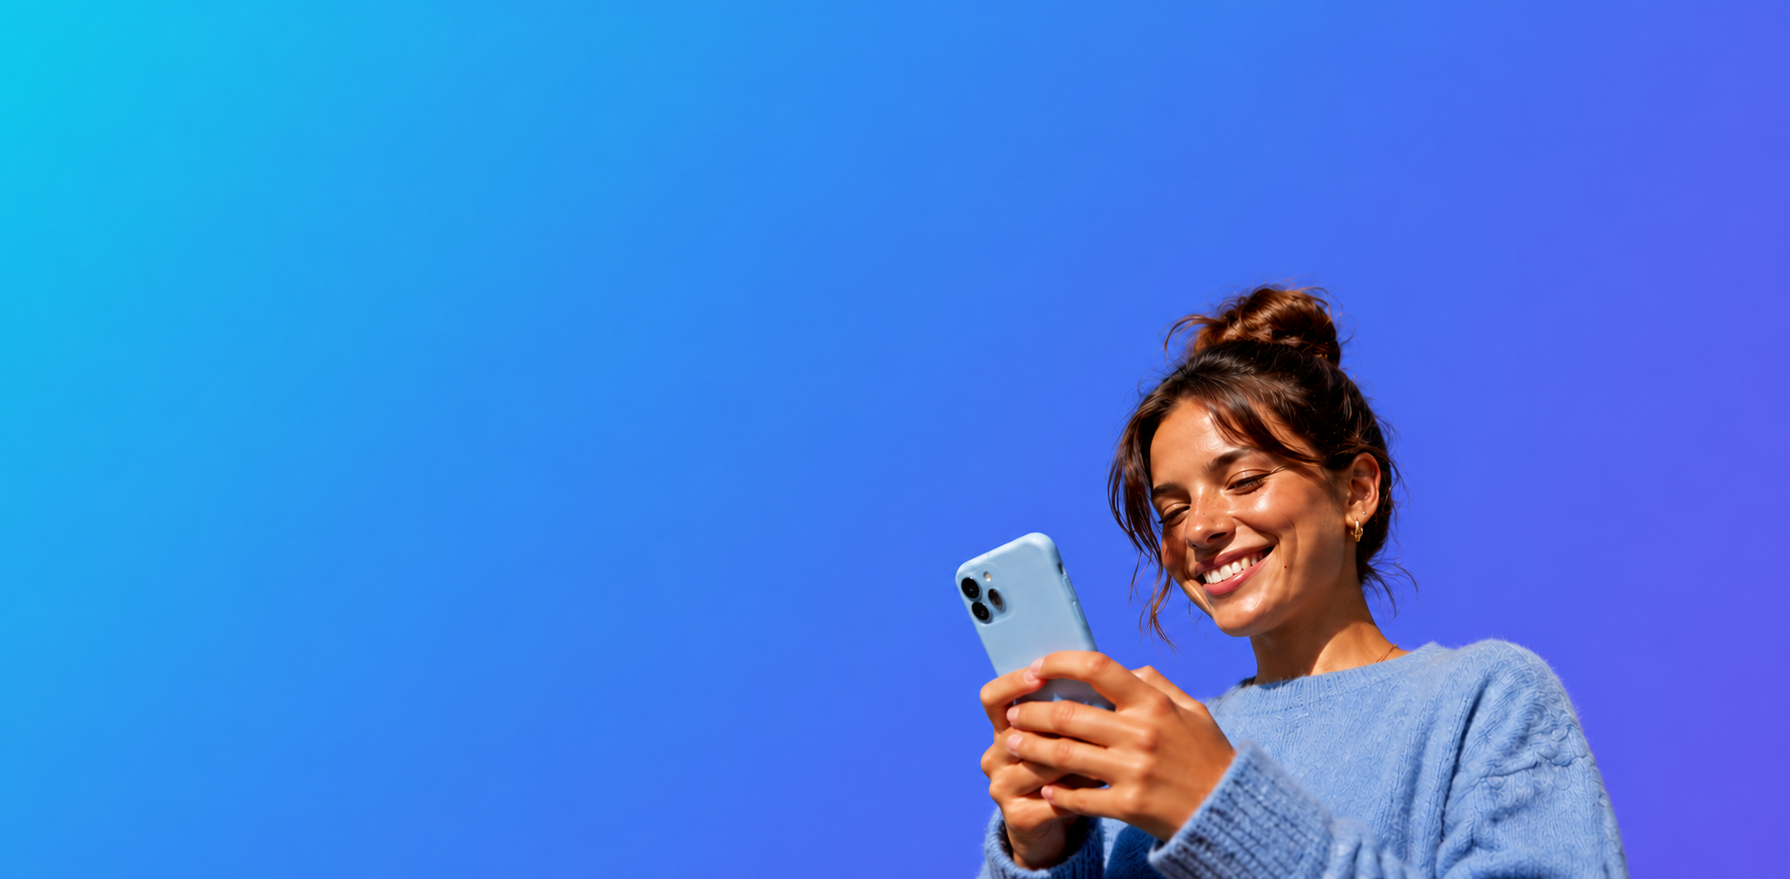
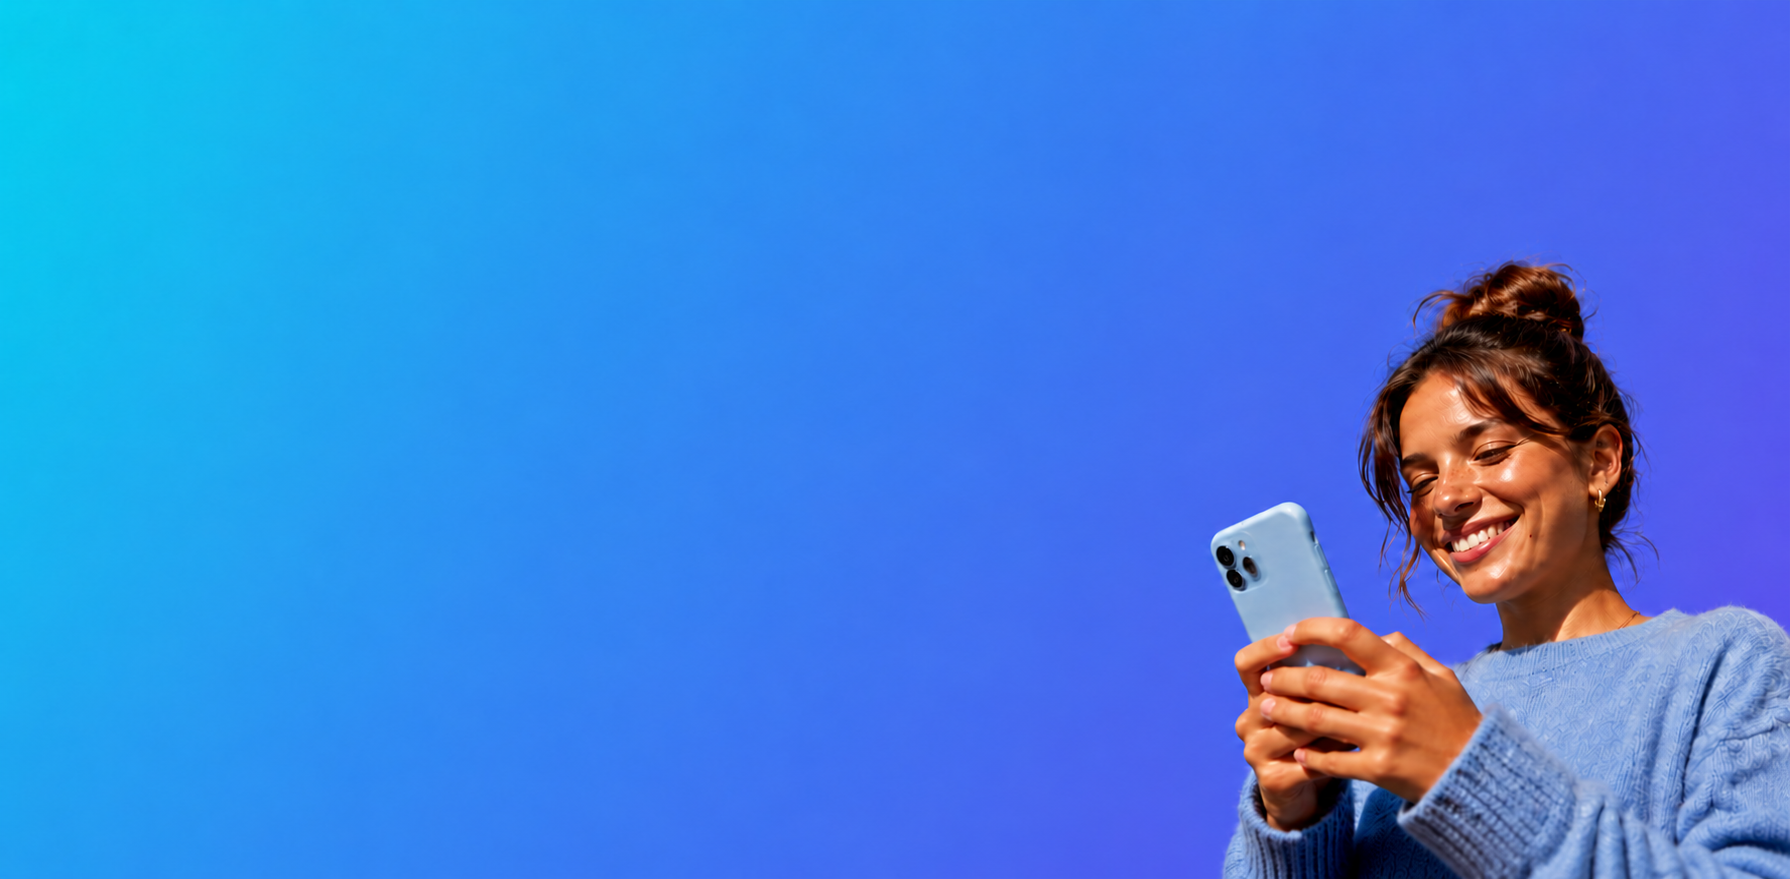
img

Changed region(s): [[0.5223, 0.2765, 1.0, 1.0]]

diff --git a/src/components/Hero.tsx b/src/components/Hero.tsx
@@ -7,15 +7,15 @@ interface HeroProps {
 }
 
 export default function Hero({ onGetStarted }: HeroProps) {
-  // 5-step cycle: 0=reset/blank, 1=question, 2=+trigger, 3=+hello, 4=+product card
-  const [step, setStep] = useState(1);
+  // 4-step cycle: 0=reset/blank, 1=comment, 2=creator reply, 3=DM received
+  const [step, setStep] = useState(0);
   const [typedText, setTypedText] = useState("");
   const [isTypingDone, setIsTypingDone] = useState(false);
 
   useEffect(() => {
     const timer = setInterval(() => {
-      setStep((prev) => (prev >= 4 ? 0 : prev + 1));
-    }, 2000);
+      setStep((prev) => (prev >= 3 ? 0 : prev + 1));
+    }, 2800);
     return () => clearInterval(timer);
   }, []);
 
@@ -104,93 +104,103 @@ export default function Hero({ onGetStarted }: HeroProps) {
                   Trusted Meta Tech Providers
                 </span>
               </div>
-              
+
               {/* Official APIs Caption */}
               <p className="text-xs text-white/70 font-medium select-none pl-2 tracking-tight">
-                *we use 100% official meta apis
+                *We use 100% official Meta APIs
               </p>
             </motion.div>
           </div>
 
-          {/* ── Right Column: Chat bubbles ── */}
+          {/* ── Right Column: Instagram Comment & DM Mockups ── */}
           <div className="hidden lg:block relative h-[500px]">
 
-            {/* Bubble 1: "Do you have a shop?" — step 1+ */}
+            {/* Comments Mockup (Floating bubbles, no sheet wrapper) */}
             <AnimatePresence>
-              {step >= 1 && (
+              {(step === 1 || step === 2) && (
                 <motion.div
-                  key="bubble-question"
-                  initial={{ opacity: 0, y: -12, scale: 0.92 }}
+                  initial={{ opacity: 0, y: -20, scale: 0.95 }}
                   animate={{ opacity: 1, y: 0, scale: 1 }}
-                  exit={{ opacity: 0, y: -12, scale: 0.92 }}
-                  transition={{ type: 'spring', stiffness: 220, damping: 24 }}
-                  className="absolute flex items-center gap-2.5 bg-[#1b1b1b] text-white px-3.5 py-2.5 rounded-2xl shadow-2xl border border-white/10 backdrop-blur-sm"
-                  style={{ top: '8%', right: '8%' }}
+                  exit={{ opacity: 0, y: 20, scale: 0.95 }}
+                  transition={{ type: 'spring', stiffness: 200, damping: 22 }}
+                  className="absolute w-[260px] flex flex-col gap-3 select-none"
+                  style={{ top: '22%', right: '38%' }}
                 >
-                  <img
-                    src="https://images.unsplash.com/photo-1534528741775-53994a69daeb?auto=format&fit=crop&q=80&w=150"
-                    alt="User"
-                    className="h-7 w-7 rounded-full border-2 border-[#695dd4] object-cover shrink-0"
-                    referrerPolicy="no-referrer"
-                  />
-                  <p className="text-xs font-bold whitespace-nowrap">Do you have a shop?</p>
+                  {/* Comment 1: User asking for link */}
+                  <div className="flex items-start gap-2">
+                    <img
+                      src="https://images.unsplash.com/photo-1494790108377-be9c29b29330?auto=format&fit=crop&q=80&w=150"
+                      alt="Follower"
+                      className="h-6 w-6 rounded-full object-cover shrink-0 mt-0.5"
+                      referrerPolicy="no-referrer"
+                    />
+                    <div className="bg-[#1e1e1e]/95 border border-white/5 text-white text-[10px] px-3.5 py-2.5 rounded-2xl rounded-tl-none font-medium leading-normal shadow-xl">
+                      <div className="flex items-baseline gap-1 mb-0.5">
+                        <span className="font-bold text-white/90">charlie_design</span>
+                        <span className="text-[7.5px] text-white/40">2d</span>
+                      </div>
+                      <p className="text-white/90">Link please</p>
+                    </div>
+                  </div>
+
+                  {/* Comment 2: Creator auto-reply */}
+                  <AnimatePresence>
+                    {step === 2 && (
+                      <motion.div
+                        initial={{ opacity: 0, y: 10, scale: 0.95 }}
+                        animate={{ opacity: 1, y: 0, scale: 1 }}
+                        exit={{ opacity: 0, y: 10, scale: 0.95 }}
+                        transition={{ duration: 0.25 }}
+                        className="flex items-start gap-2 pl-6 mt-1"
+                      >
+                        {/* Creator Avatar with gradient border */}
+                        <div className="relative shrink-0 mt-0.5">
+                          <div className="absolute inset-0 -m-[1.5px] rounded-full bg-gradient-to-tr from-yellow-500 via-pink-500 to-purple-600" style={{ animation: 'spin 12s linear infinite' }} />
+                          <img
+                            src="https://images.unsplash.com/photo-1534528741775-53994a69daeb?auto=format&fit=crop&q=80&w=150"
+                            alt="Creator"
+                            className="relative h-6 w-6 rounded-full border border-[#121212] object-cover"
+                            referrerPolicy="no-referrer"
+                          />
+                        </div>
+                        <div className="bg-[#1e1e1e]/95 border border-white/5 text-white text-[10px] px-3.5 py-2.5 rounded-2xl rounded-tl-none font-medium leading-normal shadow-xl">
+                          <div className="flex items-baseline gap-1 flex-wrap mb-0.5">
+                            <span className="font-bold text-white/90">quickrevert</span>
+                            <span className="bg-white/15 px-1 rounded-[2px] text-[7px] font-extrabold text-white/90 leading-none">Author</span>
+                            <span className="text-[7.5px] text-white/40">2d</span>
+                          </div>
+                          <p className="text-white/90">
+                            <span className="text-sky-400">@charlie_design</span> heyy check your dms 👀✨
+                          </p>
+                        </div>
+                      </motion.div>
+                    )}
+                  </AnimatePresence>
                 </motion.div>
               )}
             </AnimatePresence>
 
-            {/* Trigger Pill — step 2+ */}
+            {/* DM Chat Bubbles Mockup (No back box, completely transparent floating chat) */}
             <AnimatePresence>
-              {step >= 2 && (
+              {step === 3 && (
                 <motion.div
-                  key="trigger-pill"
-                  initial={{ opacity: 0, scale: 0.85 }}
-                  animate={{ opacity: 1, scale: 1 }}
-                  exit={{ opacity: 0, scale: 0.85 }}
-                  transition={{ duration: 0.25 }}
-                  className="absolute flex items-center gap-1.5 text-white/85 text-[11px] font-medium"
-                  style={{ top: '24%', right: '8%' }}
-                >
-                  <span className="text-yellow-300 text-xs">✦</span>
-                  <span>Shopping flow automation triggered</span>
-                </motion.div>
-              )}
-            </AnimatePresence>
-
-            {/* Bubble 2: "Hello 👋" — step 3+ */}
-            <AnimatePresence>
-              {step >= 3 && (
-                <motion.div
-                  key="bubble-hello"
-                  initial={{ opacity: 0, x: 25, scale: 0.95 }}
-                  animate={{ opacity: 1, x: 0, scale: 1 }}
-                  exit={{ opacity: 0, x: 25, scale: 0.95 }}
-                  transition={{ type: 'spring', stiffness: 180, damping: 20 }}
-                  className="absolute bg-white text-[#1b1b1b] px-4 py-2.5 rounded-full shadow-xl"
-                  style={{ top: '34%', right: '14%' }}
-                >
-                  <p className="text-xs font-semibold whitespace-nowrap">Hello 👋 Here we go!</p>
-                </motion.div>
-              )}
-            </AnimatePresence>
-
-            {/* Bubble 3: Product card — step 4+ */}
-            <AnimatePresence>
-              {step >= 4 && (
-                <motion.div
-                  key="bubble-product"
                   initial={{ opacity: 0, y: 20, scale: 0.95 }}
                   animate={{ opacity: 1, y: 0, scale: 1 }}
                   exit={{ opacity: 0, y: 20, scale: 0.95 }}
-                  transition={{ type: 'spring', stiffness: 160, damping: 18 }}
-                  className="absolute bg-white p-3.5 rounded-2xl shadow-2xl w-[200px] border border-slate-100 flex flex-col gap-2.5"
-                  style={{ top: '48%', right: '14%' }}
+                  transition={{ type: 'spring', stiffness: 200, damping: 22 }}
+                  className="absolute w-[260px] flex flex-col select-none"
+                  style={{ top: '22%', right: '38%' }}
                 >
-                  <p className="text-xs text-[#1b1b1b] font-semibold leading-snug">
-                    Check out all available products of our shop
-                  </p>
-                  <button className="w-full py-2 bg-[#695dd4] text-white text-xs font-bold rounded-lg hover:bg-[#5b51c1] transition-all">
-                    Click here!
-                  </button>
+                  {/* Purple Bubble (Creator Message) */}
+                  <div className="bg-[#05010D] text-white rounded-2xl rounded-br-none p-3.5 w-full max-w-[230px] flex flex-col shadow-xl self-end">
+                    <p className="text-[10px] font-semibold text-white leading-normal">
+                      Hey! Thanks so much for your comment ✉❤ Everything's been sent your way ✨
+                    </p>
+                    {/* Lighter Purple Button inside the bubble */}
+                    <button className="mt-2.5 w-full py-2 bg-white/20 hover:bg-white/30 active:scale-[0.98] text-white text-[9.5px] font-bold rounded-lg transition-all cursor-pointer text-center">
+                      Link
+                    </button>
+                  </div>
                 </motion.div>
               )}
             </AnimatePresence>
